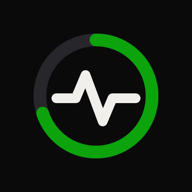
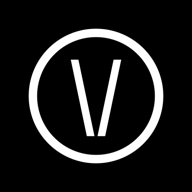
New Vitals brand (V mark + wordmark), boot screens on phone and TV, reliable voice stop, faster AI replies (parallel models)

Changed region(s): [[0.125, 0.125, 0.875, 0.875]]

diff --git a/web/index.html b/web/index.html
@@ -12,7 +12,7 @@
 <link href="fonts/fonts.css" rel="stylesheet">
 <link rel="manifest" href="manifest.webmanifest">
 <link rel="apple-touch-icon" href="icon-180.png">
-<link rel="icon" href="icon-192.png">
+<link rel="icon" href="icon.svg" type="image/svg+xml"><link rel="alternate icon" href="icon-192.png">
 <style>
 :root{
   color-scheme:dark;
@@ -177,7 +177,7 @@ body.tv{overflow:hidden}
 body.tv .app{max-width:none;margin:0;padding:2.2rem 2.6rem 2rem 15.5rem;height:100vh;overflow-y:auto;scroll-behavior:smooth;scrollbar-width:none}
 body.tv .app::-webkit-scrollbar{display:none}
 body.tv nav.tabs{top:0;bottom:0;right:auto;width:13rem;flex-direction:column;justify-content:flex-start;gap:.4rem;padding:2.2rem 1.1rem;border-top:0;border-right:1px solid var(--grid);background:#0d0d0f}
-body.tv nav.tabs:before{content:"VITALS";font-weight:900;letter-spacing:.3em;font-size:.85rem;color:var(--muted);padding:0 .9rem 1.6rem}
+
 body.tv .tab{flex:none;flex-direction:row;justify-content:flex-start;gap:.9rem;padding:.85rem .9rem;font-size:.85rem}
 body.tv .tab svg{width:1.4rem;height:1.4rem}
 body.tv .rail-extra{display:block;margin-top:auto;padding:0 .9rem;color:var(--muted);font-size:.78rem}
@@ -252,7 +252,7 @@ body.tv .tips li{font-size:1.02rem}
 body.tv .insight span{font-size:.92rem}
 body.tv .sub,body.tv .delta{font-size:.85rem}
 body.tv .tab{font-size:1rem}
-body.tv nav.tabs:before{font-family:var(--cond);font-size:1.1rem}
+
 body.tv .rail-extra .clock{font-size:3rem;font-weight:700}
 @media (max-width:420px){.big{font-size:2.9rem}.ring.main svg{max-width:150px}.ring .lab{font-size:.8rem}.ring.main .lab{font-size:.95rem}.ring .st{font-size:.7rem}}
 
@@ -283,6 +283,27 @@ body.tv .rail-extra .clock{font-size:3rem;font-weight:700}
 .seg::-webkit-scrollbar{display:none}
 .seg button{flex:none;white-space:nowrap}
 .chart svg{touch-action:pan-y}
+
+
+/* ---------- brand: wordmark, mark, boot screen ---------- */
+.wordmark{display:block;height:13px;width:auto;fill:currentColor;color:var(--ink)}
+.mark{display:block;fill:currentColor;color:var(--ink)}
+.brandrow{display:flex;align-items:center;color:var(--muted);font-family:var(--cond);font-weight:700;letter-spacing:.2em;font-size:.8rem}
+.brandrow .wordmark{height:12px;margin-right:10px;color:var(--ink)}
+#splash{position:fixed;top:0;left:0;right:0;bottom:0;z-index:100;background:#000;display:flex;align-items:center;justify-content:center;transition:opacity .5s ease, visibility .5s}
+#splash.gone{opacity:0;visibility:hidden}
+.splash-in{display:flex;flex-direction:column;align-items:center}
+.splash-mark{width:84px;height:84px;color:#fff;animation:splashIn .9s cubic-bezier(.2,.8,.2,1) both}
+.splash-word{height:22px;margin-top:26px;color:#fff;animation:splashIn .9s .15s cubic-bezier(.2,.8,.2,1) both}
+.splash-bar{width:120px;height:2px;background:rgba(255,255,255,.12);border-radius:2px;margin-top:30px;overflow:hidden}
+.splash-bar i{display:block;height:100%;width:40%;background:#fff;border-radius:2px;animation:splashBar 1.1s ease-in-out infinite}
+@keyframes splashIn{from{opacity:0;transform:translateY(8px) scale(.96)}to{opacity:1;transform:none}}
+@keyframes splashBar{0%{transform:translateX(-110%)}100%{transform:translateX(280%)}}
+body.tv .splash-mark{width:9rem;height:9rem}
+body.tv .splash-word{height:2.6rem;margin-top:2.6rem}
+body.tv .splash-bar{width:14rem;margin-top:3rem}
+.rail-logo{padding:0 .9rem 1.8rem;color:var(--ink)}
+.rail-logo .wordmark{height:1.15rem;color:var(--ink)}
 
 /* ---------- stacked cards & wide Vitals Age ---------- */
 .stack{display:flex;flex-direction:column;min-width:0}
@@ -424,8 +445,9 @@ window.__frames = 0; (function tick(){ window.__frames++; requestAnimationFrame(
   f.appendChild(document.createElement("div")); f.appendChild(document.createElement("div")); document.documentElement.appendChild(f);
   if (f.scrollHeight !== 1) document.documentElement.classList.add("nogap"); f.remove(); })();
 </script>
+<div id="splash"><div class="splash-in"><svg class="mark splash-mark" viewBox="0 0 100 100" aria-hidden="true"><circle cx="50" cy="50" r="44" fill="none" stroke="currentColor" stroke-width="5"/><path d="M0 0H10L31 100H21Z M56 0H66L45 100H35Z" transform="translate(36.8 31) scale(0.4)"/></svg><svg class="wordmark splash-word" viewBox="-2 -2 404 104" aria-label="Vitals" role="img"><path d="M0 0H10L31 100H21Z M56 0H66L45 100H35Z"/><path d="M0 0H9.6V100H0Z" transform="translate(88 0)"/><path d="M0 0H56V9.6H32.8V100H23.2V9.6H0Z" transform="translate(119.5 0)"/><path d="M21 0H31L10 100H0Z M35 0H45L66 100H56Z" transform="translate(192 0)"/><path d="M0 0H9.6V90.4H48V100H0Z" transform="translate(281.5 0)"/><path d="M51 15C45.5 8 37 4.8 27 4.8 13.5 4.8 4.8 12.5 4.8 24.5 4.8 52 47.2 46 47.2 75 47.2 87.5 38.5 95.2 25 95.2 14.5 95.2 6 90.5 1 82" transform="translate(347.5 0)" fill="none" stroke="currentColor" stroke-width="9.6"/></svg><div class="splash-bar"><i></i></div></div></div>
 <div id="ambientBar"></div>
-<main class="app" id="app"><div class="loading">Loading your data…</div></main>
+<main class="app" id="app"></main>
 <nav class="tabs" id="tabs"></nav>
 <div id="tip"></div>
 
@@ -466,6 +488,8 @@ const ICONS = {
   trends:'<path d="M4 19V9M10 19V5M16 19v-7M22 19H2"/>',
 };
 
+const WORDMARK = '<svg class="wordmark" viewBox="-2 -2 404 104" aria-label="Vitals" role="img"><path d="M0 0H10L31 100H21Z M56 0H66L45 100H35Z"/><path d="M0 0H9.6V100H0Z" transform="translate(88 0)"/><path d="M0 0H56V9.6H32.8V100H23.2V9.6H0Z" transform="translate(119.5 0)"/><path d="M21 0H31L10 100H0Z M35 0H45L66 100H56Z" transform="translate(192 0)"/><path d="M0 0H9.6V90.4H48V100H0Z" transform="translate(281.5 0)"/><path d="M51 15C45.5 8 37 4.8 27 4.8 13.5 4.8 4.8 12.5 4.8 24.5 4.8 52 47.2 46 47.2 75 47.2 87.5 38.5 95.2 25 95.2 14.5 95.2 6 90.5 1 82" transform="translate(347.5 0)" fill="none" stroke="currentColor" stroke-width="9.6"/></svg>';
+const MARK = '<svg class="mark" viewBox="0 0 100 100" aria-hidden="true"><circle cx="50" cy="50" r="44" fill="none" stroke="currentColor" stroke-width="5"/><path d="M0 0H10L31 100H21Z M56 0H66L45 100H35Z" transform="translate(36.8 31) scale(0.4)"/></svg>';
 /* ============================================================ utils */
 const $ = s => document.querySelector(s);
 const esc = s => String(s ?? "").replace(/[&<>"]/g, c => ({"&":"&amp;","<":"&lt;",">":"&gt;",'"':"&quot;"}[c]));
@@ -1614,20 +1638,35 @@ async function askGemini(contents){
   let models = await chatModels(key);
   let good = null; try { good = localStorage.getItem("vitals.goodModel"); } catch (e) {}
   if (good && models.indexOf(good) > 0) models = [good].concat(models.filter(m => m !== good));
-  for (const m of models) {
-    const ctl = new AbortController(), to = setTimeout(() => ctl.abort(), 30000);
+  const body = JSON.stringify({ systemInstruction: { parts: [{ text: sys }] }, contents, generationConfig: { temperature: 0.6, maxOutputTokens: 2048 } });
+  const one = (m, ctl) => {
+    const to = setTimeout(() => ctl.abort(), 25000);
+    return fetch(`https://generativelanguage.googleapis.com/v1beta/models/${m}:generateContent`, { method: "POST", signal: ctl.signal,
+        headers: { "content-type": "application/json", "x-goog-api-key": key }, body })
+      .then(async r => {
+        clearTimeout(to);
+        if (r.status === 401 || r.status === 403) throw new Error("KEY");
+        if (r.status === 400) { const t = await r.text(); throw new Error(/API key/i.test(t) ? "KEY" : "SKIP"); }
+        if (!r.ok) throw new Error("SKIP");                      // 429/503: busy
+        const j = await r.json();
+        const text = ((j.candidates && j.candidates[0] && j.candidates[0].content && j.candidates[0].content.parts) || []).filter(p => !p.thought).map(p => p.text || "").join("");
+        if (!text.trim()) throw new Error("SKIP");
+        return { m, text };
+      }, e => { clearTimeout(to); throw e; });
+  };
+  // first answer wins (a tiny Promise.any)
+  const race = list => new Promise((res, rej) => {
+    let left = list.length, keyErr = false; const ctls = list.map(() => new AbortController());
+    if (!left) { rej(new Error("BUSY")); return; }
+    list.forEach((m, i) => one(m, ctls[i]).then(v => { ctls.forEach((c, k) => { if (k !== i) c.abort(); }); res(v); },
+      e => { if (e.message === "KEY") keyErr = true; if (--left === 0) rej(new Error(keyErr ? "KEY" : "BUSY")); }));
+  });
+  for (let i = 0; i < models.length; i += 3) {
     try {
-      const r = await fetch(`https://generativelanguage.googleapis.com/v1beta/models/${m}:generateContent`, { method: "POST", signal: ctl.signal,
-        headers: { "content-type": "application/json", "x-goog-api-key": key },
-        body: JSON.stringify({ systemInstruction: { parts: [{ text: sys }] }, contents, generationConfig: { temperature: 0.6, maxOutputTokens: 2048 } }) });
-      clearTimeout(to);
-      if (r.status === 401 || r.status === 403) throw new Error("KEY");
-      if (r.status === 400) { const t = await r.text(); if (/API key/i.test(t)) throw new Error("KEY"); continue; }
-      if (!r.ok) continue;                                   // 429/503: model busy, try the next one
-      const j = await r.json();
-      const text = ((j.candidates && j.candidates[0] && j.candidates[0].content && j.candidates[0].content.parts) || []).filter(p => !p.thought).map(p => p.text || "").join("");
-      if (text.trim()) { try { localStorage.setItem("vitals.goodModel", m); } catch (e) {} return text; }
-    } catch (e) { clearTimeout(to); if (e.message === "KEY") throw e; }
+      const v = await race(models.slice(i, i + 3));
+      try { localStorage.setItem("vitals.goodModel", v.m); } catch (e) {}
+      return v.text;
+    } catch (e) { if (e.message === "KEY") throw e; }
   }
   throw new Error("BUSY");
 }
@@ -1648,16 +1687,26 @@ async function sendChat(q){
   chatBusy = false; renderChat();
 }
 function growInput(){ const t = $c("#chat-in"); t.style.height = "auto"; t.style.height = Math.min(130, t.scrollHeight) + "px"; }
-function stopVoice(){ if (rec && recOn) { try { rec.stop(); } catch (e) {} } recOn = false; $c("#chat-mic").classList.remove("on"); }
+let recSession = 0, recTimer = null;
+function stopVoice(){
+  recSession++; clearTimeout(recTimer);
+  if (rec) { const r0 = rec; rec = null; r0.onresult = r0.onend = r0.onerror = null; try { r0.abort(); } catch (e) {} try { r0.stop(); } catch (e) {} }
+  recOn = false; $c("#chat-mic").classList.remove("on");
+}
 function toggleVoice(){
   if (!SR) return;
   if (recOn) { stopVoice(); return; }
-  const input = $c("#chat-in"), base = input.value ? input.value.replace(/\s*$/, " ") : "";
-  rec = new SR(); rec.lang = navigator.language || "en-US"; rec.interimResults = true; rec.continuous = false;
-  rec.onresult = e => { let t = ""; for (let i = 0; i < e.results.length; i++) t += e.results[i][0].transcript; input.value = base + t; growInput(); };
-  rec.onerror = e => { stopVoice(); if (e.error === "not-allowed" || e.error === "service-not-allowed") { const th = chatThreads[chatKey] || (chatThreads[chatKey] = []); th.push({ role: "model", err: true, text: "Voice input isn't allowed here. Use the microphone on your keyboard instead." }); renderChat(); } };
-  rec.onend = () => { recOn = false; $c("#chat-mic").classList.remove("on"); };
-  try { rec.start(); recOn = true; $c("#chat-mic").classList.add("on"); } catch (e) { stopVoice(); }
+  const input = $c("#chat-in"), base = input.value ? input.value.replace(/\s*$/, " ") : "", me = ++recSession;
+  const r0 = new SR(); rec = r0;
+  r0.lang = navigator.language || "en-US"; r0.interimResults = true; r0.continuous = false;
+  const arm = ms => { clearTimeout(recTimer); recTimer = setTimeout(() => { if (me === recSession) stopVoice(); }, ms); };
+  r0.onresult = e => { if (me !== recSession) return; let t = ""; for (let i = 0; i < e.results.length; i++) t += e.results[i][0].transcript; input.value = base + t; growInput(); arm(1800); };
+  r0.onerror = e => {
+    if (me !== recSession) return; stopVoice();
+    if (e.error === "not-allowed" || e.error === "service-not-allowed") { const th = chatThreads[chatKey] || (chatThreads[chatKey] = []); th.push({ role: "model", err: true, text: "Voice input isn't allowed here. Use the microphone on your keyboard instead." }); renderChat(); }
+  };
+  r0.onend = () => { if (me === recSession) stopVoice(); };
+  try { r0.start(); recOn = true; $c("#chat-mic").classList.add("on"); arm(8000); } catch (e) { stopVoice(); }
 }
 chat.addEventListener("click", async e => {
   const t = e.target.closest("[data-chatclose], button"); if (!t) return;
@@ -1699,7 +1748,7 @@ function renderTabs(){
   const nav = $("#tabs");
   if (nav.children.length) { nav.querySelectorAll(".tab").forEach(t => t.classList.toggle("on", t.dataset.view === state.view)); tickClock(); return; }
   const lab = {today:"Today",sleep:"Sleep",heart:"Heart",activity:"Activity",trends:"Trends"};
-  $("#tabs").innerHTML = VIEWS.map(v => `<button class="tab ${state.view===v?"on":""}" data-view="${v}"><svg viewBox="0 0 24 24">${ICONS[v]}</svg>${lab[v]}</button>`).join("")
+  $("#tabs").innerHTML = `<div class="rail-logo">${WORDMARK}</div>` + VIEWS.map(v => `<button class="tab ${state.view===v?"on":""}" data-view="${v}"><svg viewBox="0 0 24 24">${ICONS[v]}</svg>${lab[v]}</button>`).join("")
     + `<div class="rail-extra"><div class="clock" id="clock"></div><div id="railSync"></div><div style="margin-top:.6rem;opacity:.7">Hold OK for ambient</div></div>`;
   tickClock();
 }
@@ -1715,7 +1764,7 @@ function render(keepFocus){
   if (keepFocus) app.style.minHeight = app.offsetHeight + "px";   // stop the page collapsing while charts redraw
   const gen = DATA.generated ? new Date(DATA.generated) : null;
   const stale = gen && (Date.now() - gen) > 36 * 36e5;
-  $("#app").innerHTML = `<header class="top"><div><div class="brand">Vitals${DATA.profile?.name ? " · " + esc(DATA.profile.name) : ""}</div>
+  $("#app").innerHTML = `<header class="top"><div><div class="brandrow">${WORDMARK}${DATA.profile?.name ? "· " + esc(DATA.profile.name).toUpperCase() : ""}</div>
       <h1>${state.view === "today" ? fDay(new Date()) : ""}${state.view !== "today" ? "" : ""}</h1></div>
       <div class="meta">${DATA.source === "sample" ? `<span class="badge warn">Sample data</span><br>` : ""}${stale ? `<span class="badge warn">Sync overdue</span><br>` : ""}Synced ${gen ? relTime(gen) : "–"}<br>${esc(DATA.profile?.device || "")}</div></header>
     <div class="view${keepFocus ? " still" : ""}">${v.html}</div>`;
@@ -1839,14 +1888,17 @@ document.addEventListener("keyup", e => { if (e.key === "Enter" || e.key === " "
 document.addEventListener("focusin", e => { if (!TV) return; const t = e.target.closest(".tab"); if (t && t.dataset.view && t.dataset.view !== state.view && !ambientTimer) { /* switch on focus for snappy TV feel */ go(t.dataset.view); requestAnimationFrame(() => $(`.tab[data-view="${t.dataset.view}"]`)?.focus()); } });
 
 /* ============================================================ load */
+const bootAt = Date.now();
+function hideSplash(){ const sp = $("#splash"); if (!sp || sp.classList.contains("gone")) return; setTimeout(() => sp.classList.add("gone"), Math.max(0, 900 - (Date.now() - bootAt))); }
 async function load(){
   try {
     const r = await fetch("data.json?t=" + Math.floor(Date.now() / 6e5), {cache: "no-store"});
     if (!r.ok) throw new Error(r.status);
     setData(await r.json());
     render();
+    hideSplash();
   } catch (e) {
-    if (!DATA) $("#app").innerHTML = `<div class="loading">Couldn't load data.json (${esc(e.message)})</div>`;
+    if (!DATA) { $("#app").innerHTML = `<div class="loading">Couldn't load data.json (${esc(e.message)})</div>`; hideSplash(); }
   }
 }
 load();

diff --git a/web/sw.js b/web/sw.js
@@ -1,6 +1,6 @@
 // App shell cached; data.json always network-first so the latest sync shows.
-const CACHE = "vitals-v4";
-const SHELL = ["./", "index.html", "manifest.webmanifest", "icon-192.png", "icon-512.png", "icon-180.png", "fonts/fonts.css"];
+const CACHE = "vitals-v5";
+const SHELL = ["./", "index.html", "manifest.webmanifest", "icon-192.png", "icon-512.png", "icon-180.png", "icon.svg", "fonts/fonts.css"];
 self.addEventListener("install", e => { e.waitUntil(caches.open(CACHE).then(c => c.addAll(SHELL))); self.skipWaiting(); });
 self.addEventListener("activate", e => { e.waitUntil(caches.keys().then(ks => Promise.all(ks.filter(k => k !== CACHE).map(k => caches.delete(k))))); self.clients.claim(); });
 self.addEventListener("fetch", e => {

diff --git a/tv/Art.java b/tv/Art.java
@@ -4,58 +4,75 @@ import java.awt.image.BufferedImage;
 import java.io.File;
 import javax.imageio.ImageIO;
 
-/** Draws the launcher icon and the Android TV home-screen banner (glowing ring + pulse line). */
+/** Draws the Vitals brand assets for the TV app: launcher icon, home-screen banner and boot-screen logo.
+ *  Geometry matches the web app's SVG (100-unit cap height, split-stroke V). */
 public class Art {
-    static final Color BG = new Color(0x0a0a0b), TRACK = new Color(0x27272b), GREEN = new Color(0x0ca30c), INK = new Color(0xf0efec);
+    static final Color BG = new Color(0x000000), INK = new Color(0xf0efec);
 
     public static void main(String[] a) throws Exception {
         String res = a.length > 0 ? a[0] : "res";
+        new File(res + "/drawable-xxhdpi").mkdirs();
+        new File(res + "/drawable-xhdpi").mkdirs();
         ImageIO.write(icon(192), "png", new File(res + "/drawable-xxhdpi/ic_launcher.png"));
         ImageIO.write(banner(320, 180), "png", new File(res + "/drawable-xhdpi/banner.png"));
+        ImageIO.write(splashLogo(), "png", new File(res + "/drawable-xhdpi/splash_logo.png"));
     }
 
     static Graphics2D g(BufferedImage img) {
         Graphics2D g = img.createGraphics();
         g.setRenderingHint(RenderingHints.KEY_ANTIALIASING, RenderingHints.VALUE_ANTIALIAS_ON);
         g.setRenderingHint(RenderingHints.KEY_STROKE_CONTROL, RenderingHints.VALUE_STROKE_PURE);
-        g.setRenderingHint(RenderingHints.KEY_TEXT_ANTIALIASING, RenderingHints.VALUE_TEXT_ANTIALIAS_ON);
+        g.setRenderingHint(RenderingHints.KEY_RENDERING, RenderingHints.VALUE_RENDER_QUALITY);
         return g;
     }
 
-    static void ring(Graphics2D g, double cx, double cy, double r, double w) {
-        g.setStroke(new BasicStroke((float) w, BasicStroke.CAP_ROUND, BasicStroke.JOIN_ROUND));
-        g.setColor(TRACK);
-        g.draw(new Ellipse2D.Double(cx - r, cy - r, 2 * r, 2 * r));
-        for (int i = 6; i >= 1; i--) { // soft glow
-            g.setStroke(new BasicStroke((float) (w + i * 3), BasicStroke.CAP_ROUND, BasicStroke.JOIN_ROUND));
-            g.setColor(new Color(12, 163, 12, 10));
-            g.draw(new Arc2D.Double(cx - r, cy - r, 2 * r, 2 * r, 90, -252, Arc2D.OPEN));
-        }
-        g.setStroke(new BasicStroke((float) w, BasicStroke.CAP_ROUND, BasicStroke.JOIN_ROUND));
-        g.setColor(GREEN);
-        g.draw(new Arc2D.Double(cx - r, cy - r, 2 * r, 2 * r, 90, -252, Arc2D.OPEN));
+    static Path2D poly(double... xy) {
+        Path2D p = new Path2D.Double();
+        p.moveTo(xy[0], xy[1]);
+        for (int i = 2; i < xy.length; i += 2) p.lineTo(xy[i], xy[i + 1]);
+        p.closePath();
+        return p;
     }
 
-    static void pulse(Graphics2D g, double cx, double cy, double s, double w) {
-        Path2D p = new Path2D.Double();
-        p.moveTo(cx - 1.06 * s, cy + 0.04 * s);
-        p.lineTo(cx - 0.55 * s, cy + 0.04 * s);
-        p.lineTo(cx - 0.29 * s, cy - 0.56 * s);
-        p.lineTo(cx + 0.17 * s, cy + 0.66 * s);
-        p.lineTo(cx + 0.43 * s, cy + 0.04 * s);
-        p.lineTo(cx + 1.04 * s, cy + 0.04 * s);
-        g.setStroke(new BasicStroke((float) w, BasicStroke.CAP_ROUND, BasicStroke.JOIN_ROUND));
-        g.setColor(INK);
-        g.draw(p);
+    /** Split V: two slashes that don't meet (100-unit tall, 66 wide). */
+    static void glyphV(Graphics2D g) { g.fill(poly(0, 0, 10, 0, 31, 100, 21, 100)); g.fill(poly(56, 0, 66, 0, 45, 100, 35, 100)); }
+    static void glyphA(Graphics2D g) { g.fill(poly(21, 0, 31, 0, 10, 100, 0, 100)); g.fill(poly(35, 0, 45, 0, 66, 100, 56, 100)); }
+
+    /** VITALS wordmark in a 400 x 100 box at the current transform. */
+    static void wordmark(Graphics2D g) {
+        AffineTransform t0 = g.getTransform();
+        glyphV(g);
+        g.translate(88, 0); g.fill(new Rectangle2D.Double(0, 0, 9.6, 100));
+        g.setTransform(t0); g.translate(119.5, 0); g.fill(poly(0, 0, 56, 0, 56, 9.6, 32.8, 9.6, 32.8, 100, 23.2, 100, 23.2, 9.6, 0, 9.6));
+        g.setTransform(t0); g.translate(192, 0); glyphA(g);
+        g.setTransform(t0); g.translate(281.5, 0); g.fill(poly(0, 0, 9.6, 0, 9.6, 90.4, 48, 90.4, 48, 100, 0, 100));
+        g.setTransform(t0); g.translate(347.5, 0);
+        Path2D s = new Path2D.Double();
+        s.moveTo(51, 15);
+        s.curveTo(45.5, 8, 37, 4.8, 27, 4.8);
+        s.curveTo(13.5, 4.8, 4.8, 12.5, 4.8, 24.5);
+        s.curveTo(4.8, 52, 47.2, 46, 47.2, 75);
+        s.curveTo(47.2, 87.5, 38.5, 95.2, 25, 95.2);
+        s.curveTo(14.5, 95.2, 6, 90.5, 1, 82);
+        g.setStroke(new BasicStroke(9.6f, BasicStroke.CAP_BUTT, BasicStroke.JOIN_MITER));
+        g.draw(s);
+        g.setTransform(t0);
+    }
+
+    /** Ring + split V in a 100 x 100 box at the current transform. */
+    static void mark(Graphics2D g, double ringR, double ringW) {
+        AffineTransform t0 = g.getTransform();
+        g.setStroke(new BasicStroke((float) ringW));
+        g.draw(new Ellipse2D.Double(50 - ringR, 50 - ringR, ringR * 2, ringR * 2));
+        g.translate(36.8, 31); g.scale(0.4, 0.4); glyphV(g);
+        g.setTransform(t0);
     }
 
     static BufferedImage icon(int n) {
         BufferedImage img = new BufferedImage(n, n, BufferedImage.TYPE_INT_ARGB);
         Graphics2D g = g(img);
-        g.setColor(BG);
-        g.fill(new RoundRectangle2D.Double(0, 0, n, n, n * 0.22, n * 0.22));
-        ring(g, n / 2.0, n / 2.0, n * 0.30, n * 0.065);
-        pulse(g, n / 2.0, n / 2.0, n * 0.20, n * 0.05);
+        g.setColor(BG); g.fill(new RoundRectangle2D.Double(0, 0, n, n, n * 0.22, n * 0.22));
+        g.setColor(INK); g.scale(n / 100.0, n / 100.0); mark(g, 33, 4.4);
         g.dispose();
         return img;
     }
@@ -63,23 +80,30 @@ public class Art {
     static BufferedImage banner(int w, int h) {
         BufferedImage img = new BufferedImage(w, h, BufferedImage.TYPE_INT_ARGB);
         Graphics2D g = g(img);
-        g.setColor(BG);
-        g.fillRect(0, 0, w, h);
-        g.setPaint(new RadialGradientPaint(new Point2D.Double(w * 0.25, -h * 0.2), w * 0.9f,
-            new float[]{0f, 1f}, new Color[]{new Color(12, 163, 12, 45), new Color(10, 10, 11, 0)}));
-        g.fillRect(0, 0, w, h);
-        ring(g, h * 0.5, h * 0.5, h * 0.30, h * 0.06);
-        pulse(g, h * 0.5, h * 0.5, h * 0.20, h * 0.045);
+        g.setColor(BG); g.fillRect(0, 0, w, h);
         g.setColor(INK);
-        g.setFont(new Font("SansSerif", Font.BOLD, (int) (h * 0.19)));
-        FontMetrics fm = g.getFontMetrics();
-        String t = "VITALS";
-        int x = (int) (h * 0.95);
-        // manual letter spacing
-        for (char c : t.toCharArray()) { g.drawString(String.valueOf(c), x, (int) (h * 0.555)); x += fm.charWidth(c) + (int) (h * 0.022); }
-        g.setColor(new Color(0x898781));
-        g.setFont(new Font("SansSerif", Font.PLAIN, (int) (h * 0.09)));
-        g.drawString("Health & training", (int) (h * 0.97), (int) (h * 0.72));
+        AffineTransform t0 = g.getTransform();
+        double ms = h * 0.5 / 100.0;                        // mark: half the banner height
+        g.translate(h * 0.2, (h - 100 * ms) / 2); g.scale(ms, ms); mark(g, 44, 5);
+        g.setTransform(t0);
+        double ws = h * 0.15 / 100.0;                       // wordmark cap height 15% of banner
+        g.translate(h * 0.2 + 100 * ms + h * 0.15, (h - 100 * ws) / 2); g.scale(ws, ws); wordmark(g);
+        g.dispose();
+        return img;
+    }
+
+    /** Boot-screen logo (mark above wordmark), shown by the window background while the WebView starts. */
+    static BufferedImage splashLogo() {
+        int w = 360, h = 300;
+        BufferedImage img = new BufferedImage(w, h, BufferedImage.TYPE_INT_ARGB);
+        Graphics2D g = g(img);
+        g.setColor(INK);
+        AffineTransform t0 = g.getTransform();
+        double ms = 1.5;
+        g.translate((w - 100 * ms) / 2, 10); g.scale(ms, ms); mark(g, 44, 5);
+        g.setTransform(t0);
+        double ws = 0.42;
+        g.translate((w - 400 * ws) / 2, 10 + 100 * ms + 50); g.scale(ws, ws); wordmark(g);
         g.dispose();
         return img;
     }

diff --git a/tv/src/com/vitals/tv/MainActivity.java b/tv/src/com/vitals/tv/MainActivity.java
@@ -41,7 +41,7 @@ public class MainActivity extends Activity {
         super.onCreate(savedInstanceState);
         getWindow().addFlags(WindowManager.LayoutParams.FLAG_KEEP_SCREEN_ON);
         web = new WebView(this);
-        web.setBackgroundColor(Color.BLACK);
+        web.setBackgroundColor(Color.TRANSPARENT);
         web.setFocusable(true);
         web.setFocusableInTouchMode(true);
         WebSettings s = web.getSettings();
@@ -64,6 +64,7 @@ public class MainActivity extends Activity {
             @Override
             public void onPageFinished(WebView view, String url) {
                 Log.w("VitalsWeb", "page finished " + url);
+                view.setBackgroundColor(Color.BLACK);
                 if (!showingOffline) scheduleWatchdog();
             }
             @Override
